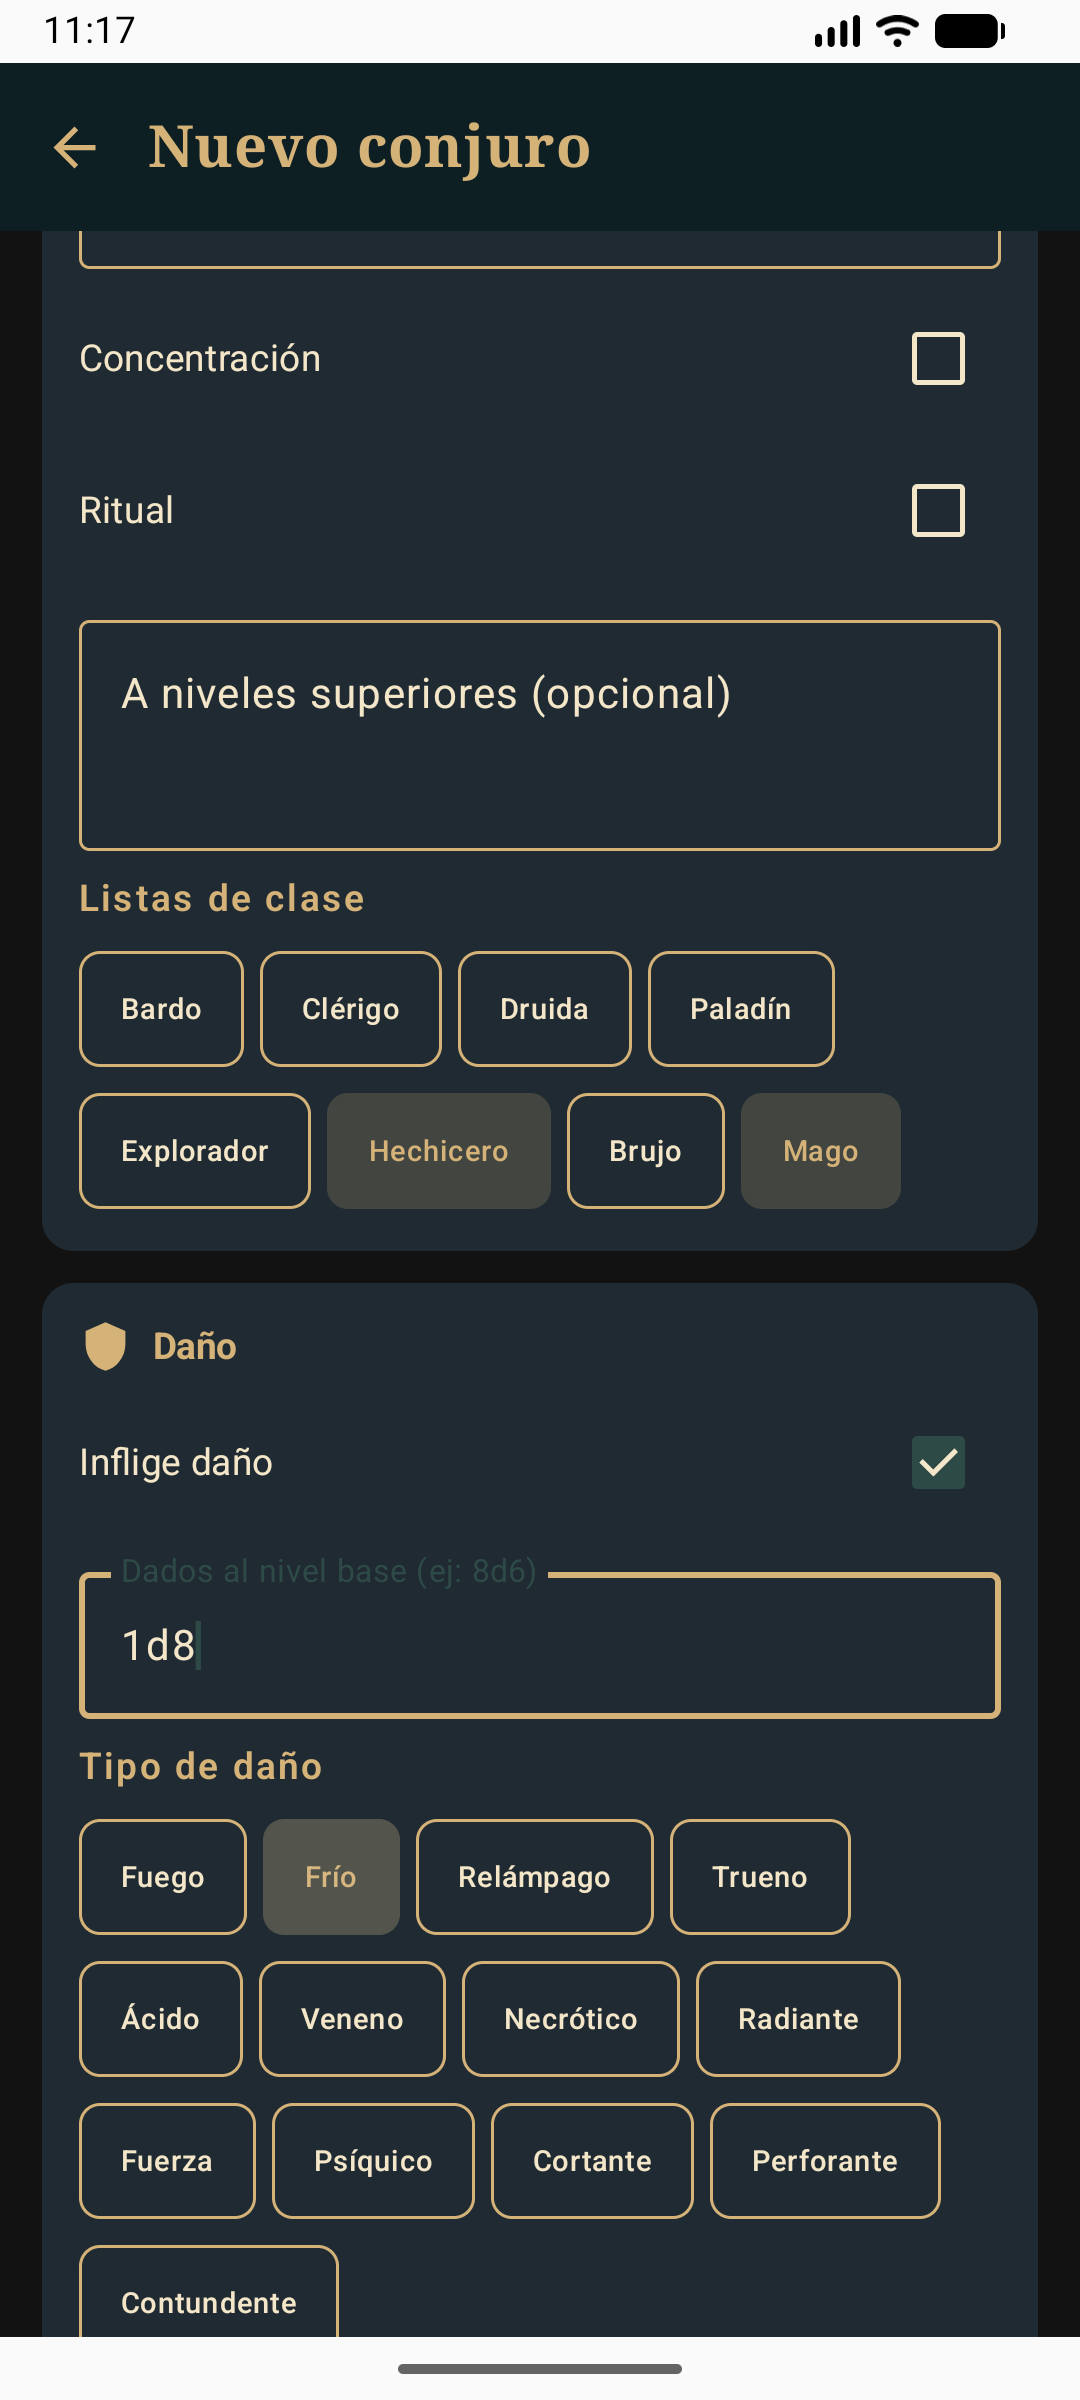
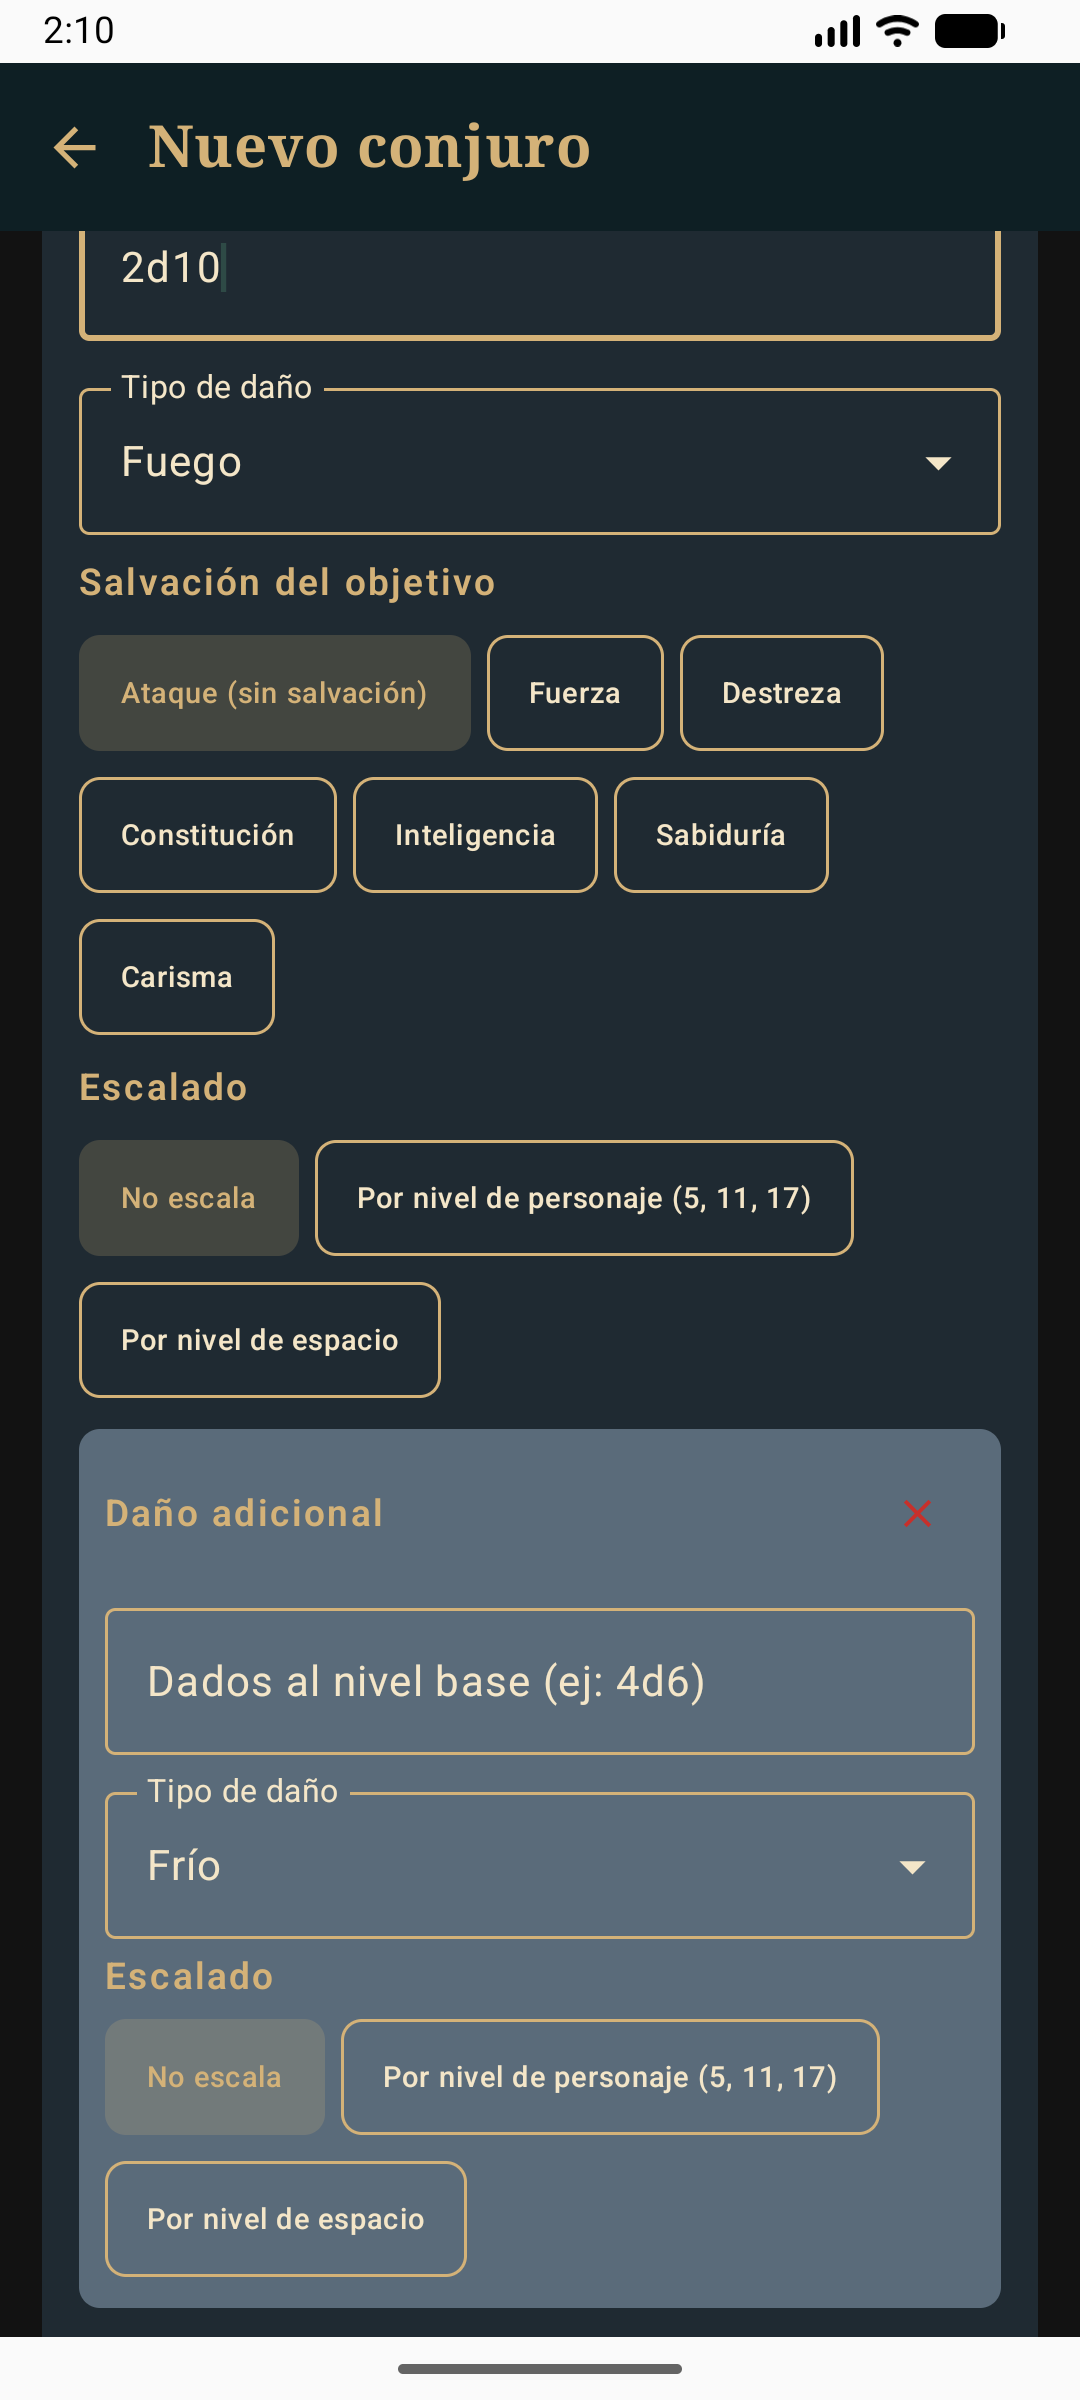
docs: conjuros con varios tipos de daño en la guia

diff --git a/conjuros-invocaciones.html b/conjuros-invocaciones.html
@@ -109,6 +109,7 @@
   <tr><td><code>scaling</code></td><td><code>{ &quot;rule&quot;: &quot;CANTRIP_LEVEL&quot; \| &quot;SLOT_LEVEL&quot;, &quot;dicePerStep&quot;: &quot;1d6&quot; }</code>. <code>CANTRIP_LEVEL</code> añade esos dados a nivel de personaje 5, 11 y 17; <code>SLOT_LEVEL</code>, por cada nivel de espacio sobre el base. Sin <code>scaling</code> el daño es fijo.</td></tr>
   <tr><td><code>save</code></td><td>Característica de la salvación del objetivo (<code>&quot;DEX&quot;</code>). Ausente = <strong>ataque de conjuro</strong> (la ficha muestra la tirada de ataque).</td></tr>
   <tr><td><code>halfOnSave</code></td><td><code>true</code> = salvar reduce el daño a la mitad.</td></tr>
+  <tr><td><code>extra</code></td><td>Lista de <strong>daños adicionales de otro tipo</strong> que el conjuro inflige a la vez: <code>[{ &quot;dice&quot;: &quot;4d6&quot;, &quot;type&quot;: &quot;cold&quot;, &quot;scaling&quot;: { … } }]</code>. Cada uno tiene sus propios dados, tipo y escalado, y comparte <code>save</code>, <code>halfOnSave</code> y <code>count</code> del bloque principal. La ficha los tira juntos y desglosa el resultado por tipo (para aplicar resistencias). Ejemplo: Tormenta de hielo = <code>2d10</code> contundente + <code>4d6</code> frío.</td></tr>
   <tr><td><code>count</code></td><td>Para conjuros que escalan en <strong>cantidad</strong> de tiradas y no en dados: <code>{ &quot;rule&quot;: &quot;FIXED&quot; \| &quot;CANTRIP_LEVEL&quot; \| &quot;SLOT_LEVEL&quot;, &quot;base&quot;: 3, &quot;perStep&quot;: 1, &quot;label&quot;: &quot;dardos&quot; }</code> (Proyectil mágico, Rayo abrasador). La ficha muestra «×N dardos»; cada tirada la haces tú.</td></tr>
 </table>
 <p><strong><code>healing</code> (<code>SpellHealing</code>)</strong>: <code>dice</code> (dados base), <code>scaling</code> (igual que en el daño) y <code>addSpellMod</code> (default <code>true</code>: suma el modificador de aptitud mágica).</p>
@@ -144,6 +145,17 @@
   &quot;damage&quot;: {
     &quot;dice&quot;: &quot;8d6&quot;, &quot;type&quot;: &quot;fire&quot;, &quot;save&quot;: &quot;DEX&quot;, &quot;halfOnSave&quot;: true,
     &quot;scaling&quot;: { &quot;rule&quot;: &quot;SLOT_LEVEL&quot;, &quot;dicePerStep&quot;: &quot;1d6&quot; }
+  }
+}</code></pre>
+<p>Conjuro con dos tipos de daño a la vez (<code>extra</code>):</p>
+<pre><code>{
+  &quot;id&quot;: &quot;ice_storm&quot;,
+  &quot;display&quot;: { &quot;name&quot;: &quot;Tormenta de hielo&quot; },
+  &quot;level&quot;: 4, &quot;school&quot;: &quot;EVOCACION&quot;, &quot;classes&quot;: [&quot;druid&quot;, &quot;sorcerer&quot;, &quot;wizard&quot;],
+  &quot;damage&quot;: {
+    &quot;dice&quot;: &quot;2d10&quot;, &quot;type&quot;: &quot;bludgeoning&quot;, &quot;save&quot;: &quot;DEX&quot;, &quot;halfOnSave&quot;: true,
+    &quot;scaling&quot;: { &quot;rule&quot;: &quot;SLOT_LEVEL&quot;, &quot;dicePerStep&quot;: &quot;1d10&quot; },
+    &quot;extra&quot;: [ { &quot;dice&quot;: &quot;4d6&quot;, &quot;type&quot;: &quot;cold&quot; } ]
   }
 }</code></pre>
 <p>Conjuro con varias tiradas (escala en cantidad), y después uno que se activa:</p>

diff --git a/editor.html b/editor.html
@@ -96,13 +96,14 @@
 <li>Si el conjuro hace daño, activa <strong>Inflige daño</strong> y completa:
 <ul>
 <li><strong>Dados al nivel base</strong> (por ejemplo <code>8d6</code>).</li>
-<li><strong>Tipo de daño</strong>.</li>
+<li><strong>Tipo de daño</strong>, en un desplegable.</li>
 <li><strong>Salvación del objetivo</strong>: elige la característica, o «Ataque (sin salvación)» si es un ataque de conjuro. Con salvación puedes marcar que salvar reduce el daño a la mitad.</li>
 </ul>
 </li>
 </ol>
 <figure><img src="img/conjuro-dano.png" alt="Sección Daño: dados, tipo y salvación" loading="lazy" /><figcaption>Sección Daño: dados, tipo y salvación</figcaption></figure>
 <ol>
+<li>Si el conjuro inflige <strong>otro tipo de daño a la vez</strong> (Tormenta de hielo: contundente y frío), toca <strong>Añadir otro daño (otro tipo)</strong> y completa sus dados, su tipo y su escalado. Puedes agregar todos los que necesites; comparten la salvación del daño principal y la ficha los tira juntos.</li>
 <li>En <strong>Escalado</strong> elige cómo crece el daño: <strong>por nivel de personaje</strong> (trucos: niveles 5, 11 y 17) o <strong>por nivel de espacio</strong> (conjuros nivelados), e indica los dados extra por escalón. Si el conjuro cura, usa la sección <strong>Curación</strong> de la misma forma.</li>
 </ol>
 <figure><img src="img/conjuro-escalado.png" alt="Escalado del daño por nivel de personaje" loading="lazy" /><figcaption>Escalado del daño por nivel de personaje</figcaption></figure>
